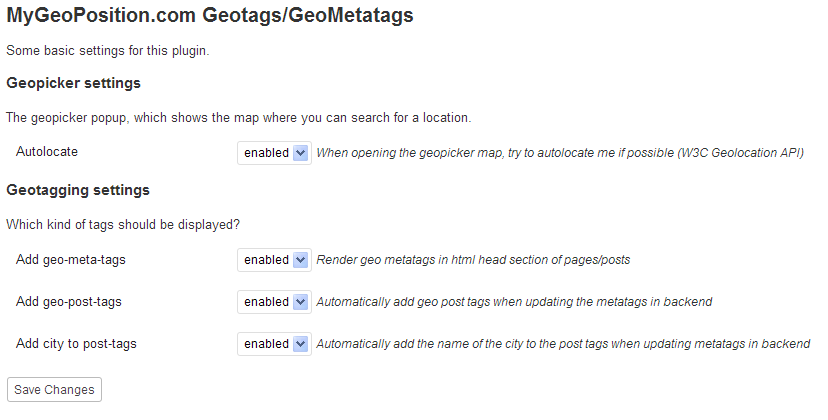
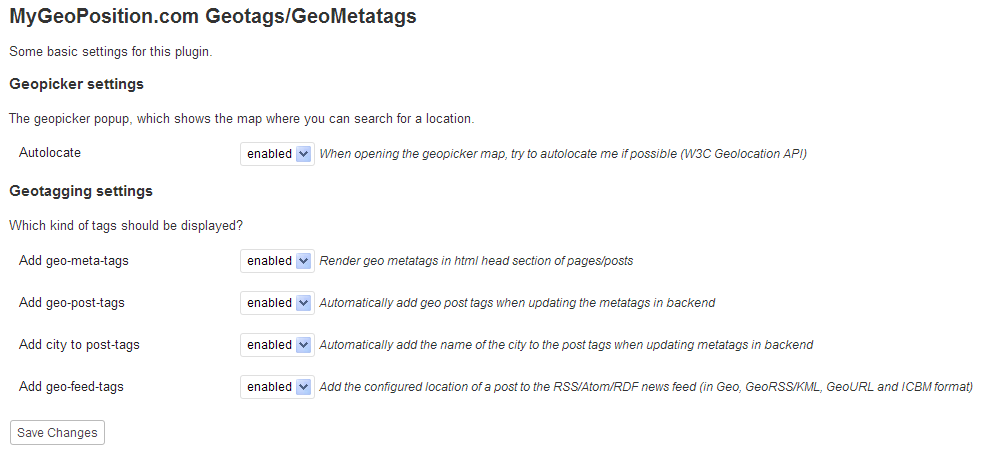
Version 1.1: Added geo-feed-tags.
git-svn-id: https://plugins.svn.wordpress.org/mygeopositioncom-geotags-geometatags/trunk@458308 b8457f37-d9ea-0310-8a92-e5e31aec5664

diff --git a/mygeopositioncom-geotags-geometatags.php b/mygeopositioncom-geotags-geometatags.php
@@ -2,8 +2,8 @@
 /**
  * Plugin Name: MyGeoPosition.com Geotags/GeoMetatags
  * Plugin URI: http://www.mygeoposition.com
- * Description: Create geo-posttags and geo-metatags for every post and page (region, placename, position, ICBM). Use an easy-to-use geopicker map with auto-locating function.
- * Version: 1.0
+ * Description: Create geo-posttags, geo-metatags and geo-feedtags for posts and pages. Use an easy-to-use geopicker map with auto-locating function.
+ * Version: 1.1
  * Author: Daniel Filzhut
  * Author URI: http://www.filzhut.de
  */
@@ -337,8 +337,68 @@ function mygpGeotagsGeoMetatags_addGeoMetatags() {
 } 
 add_action('wp_head', 'mygpGeotagsGeoMetatags_addGeoMetatags');
 
-
     
+/**
+ * Add geo namespaces to news feeds.
+ *
+ */
+function mygpGeotagsGeoMetatags_addGeoNamespaces(){
+	
+	if (mygpGeotagsGeoMetatags_getOption("addFeedtags")) {
+	
+		echo "xmlns:geo=\"http://www.w3.org/2003/01/geo/wgs84_pos#\"\n";
+		echo "\txmlns:georss=\"http://www.georss.org/georss\" xmlns:gml=\"http://www.opengis.net/gml\"\n";
+		echo "\txmlns:geourl=\"http://geourl.org/rss/module/\"\n";
+		echo "\txmlns:icbm=\"http://postneo.com/icbm\"\n";
+	
+	}
+	
+}
+add_action('rss2_ns', 'mygpGeotagsGeoMetatags_addGeoNamespaces');
+add_action('atom_ns', 'mygpGeotagsGeoMetatags_addGeoNamespaces');
+add_action('rdf_ns', 'mygpGeotagsGeoMetatags_addGeoNamespaces');
+
+
+
+/**
+ * Add geo tags to news feeds
+ *
+ */
+function mygpGeotagsGeoMetatags_addGeoFeedtags(){
+	
+    global $wp_query, $mygpGeotagsGeoMetatags_key;
+	
+	if (mygpGeotagsGeoMetatags_getOption("addFeedtags")) {
+
+		$data = get_post_meta($wp_query->post->ID, $mygpGeotagsGeoMetatags_key, true);
+		
+		$dataSplitted = "";            
+		if ($data[ 'position' ] != "") {
+			$dataSplitted = explode(";", $data[ 'position' ]);
+		}
+		if ($data[ 'ICBM' ] != "") {
+			$dataSplitted = explode(",", $data[ 'ICBM' ]);
+		}
+			
+		$lat = trim($dataSplitted[0]);
+		$lon = trim($dataSplitted[1]);
+	
+		if ($lat != "" && $lon != "") {
+			echo "\t<geo:lat>$lat</geo:lat>\n\t\t<geo:long>$lon</geo:long>\n";
+			echo "\t\t<georss:where>\n\t\t\t<gml:Point>\n\t\t\t\t<gml:pos>$lat $lon</gml:pos>\n\t\t\t</gml:Point>\n\t\t</georss:where>\n";
+			echo "\t\t<geourl:latitude>$lat</geourl:latitude>\n\t\t<geourl:longitude>$lon</geourl:longitude>\n";
+			echo "\t\t<icbm:latitude>$lat</icbm:latitude>\n\t\t<icbm:longitude>$lon</icbm:longitude>\n";
+		}
+	
+	}
+	
+}
+add_action('rss2_item', 'mygpGeotagsGeoMetatags_addGeoFeedtags');
+add_action('atom_entry', 'mygpGeotagsGeoMetatags_addGeoFeedtags');
+add_action('rdf_item', 'mygpGeotagsGeoMetatags_addGeoFeedtags');
+
+
+
 /**
  * Return plugin options.
  *
@@ -364,6 +424,9 @@ function mygpGeotagsGeoMetatags_getOption($option) {
     		  return true;
     		  break;
     		case 'addCityToPosttags';
+    		  return true;
+    		  break;
+    		case 'addFeedtags';
     		  return true;
     		  break;
     	}

diff --git a/settings.php b/settings.php
@@ -72,6 +72,11 @@ class mygpGeotagsGeoMetatags_settings_config {
 	              'label' => "Add city to post-tags",
 	              'description' => "Automatically add the name of the city to the post tags when updating metatags in backend",
 	              'dropdown' => "dd_switch",
+	              'default_value' => "true"),
+	            'addFeedtags' => array (
+	              'label' => "Add geo-feed-tags",
+	              'description' => "Add the configured location of a post to the RSS/Atom/RDF news feed (in Geo, GeoRSS/KML, GeoURL and ICBM format)",
+	              'dropdown' => "dd_switch",
 	              'default_value' => "true")
 	              )
 	          )
